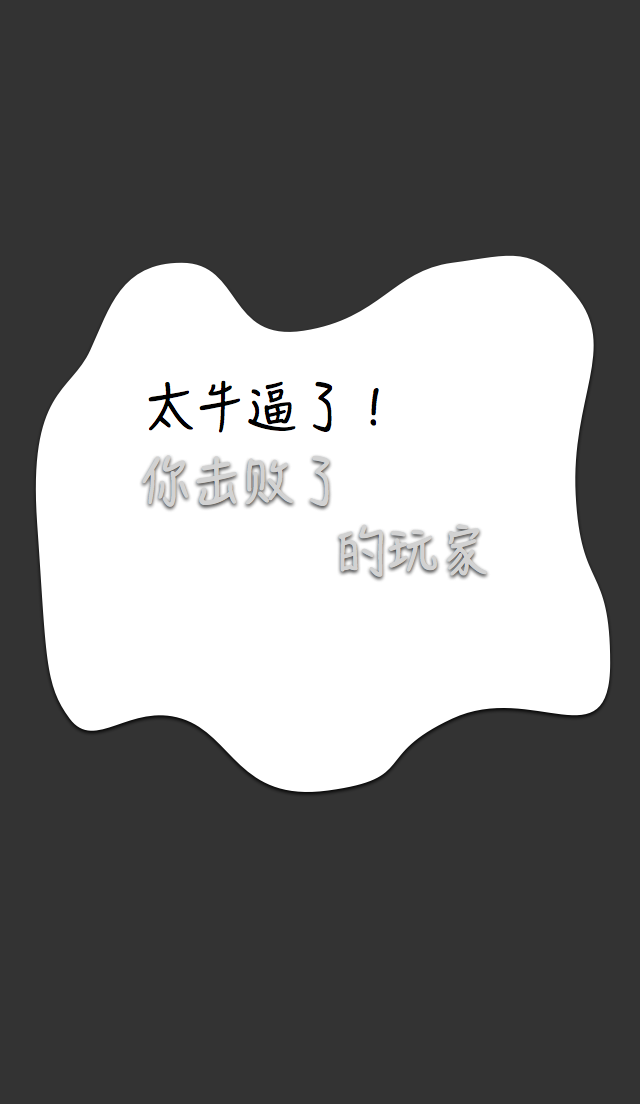
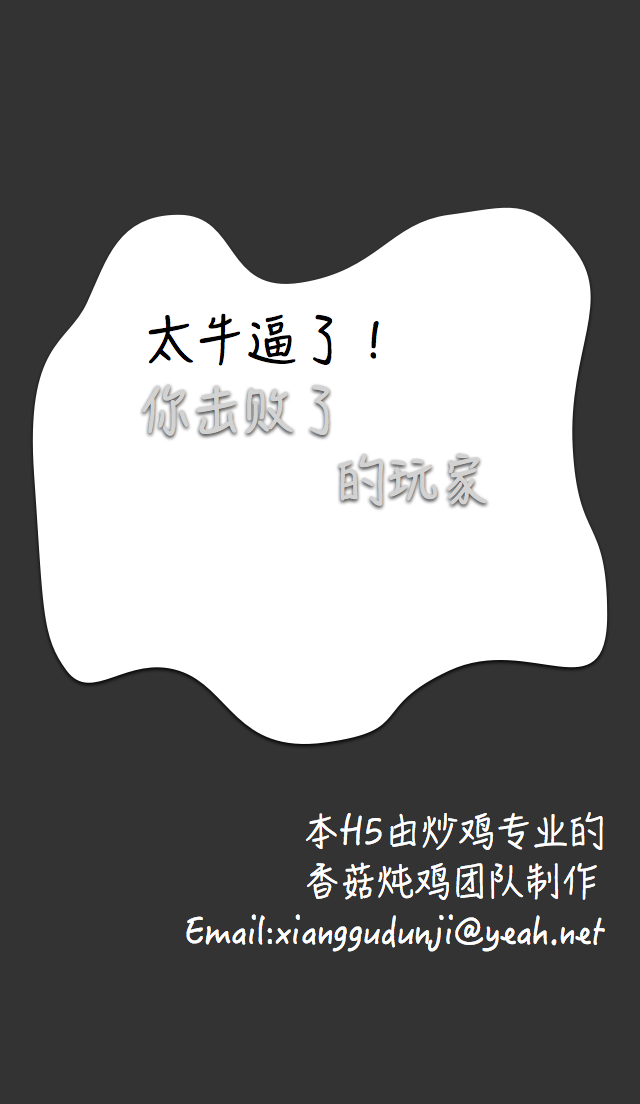
加入广告！

Changed region(s): [[0.0312, 0.1848, 0.9375, 0.5236], [0.0625, 0.462, 0.9688, 0.8623]]

diff --git a/public/js/stage.js b/public/js/stage.js
@@ -67,11 +67,11 @@ stage.showEndMask = function() {
     });
     var text = new PIXI.Text(rate(stage.burnCount),{font : '50px Arial', fill : 0x000000, align : 'center'});
     text.x = 360
-    text.y = 410
+    text.y = 340
     var backButton = sprite.getIm({
         img: R.backButton,
         'anchor.set': [0.5, 0.5],
-        'position.set':[320,600]
+        'position.set':[320,550]
     });
     backButton.interactive = true
     backButton.on('touchstart', function(e) {
